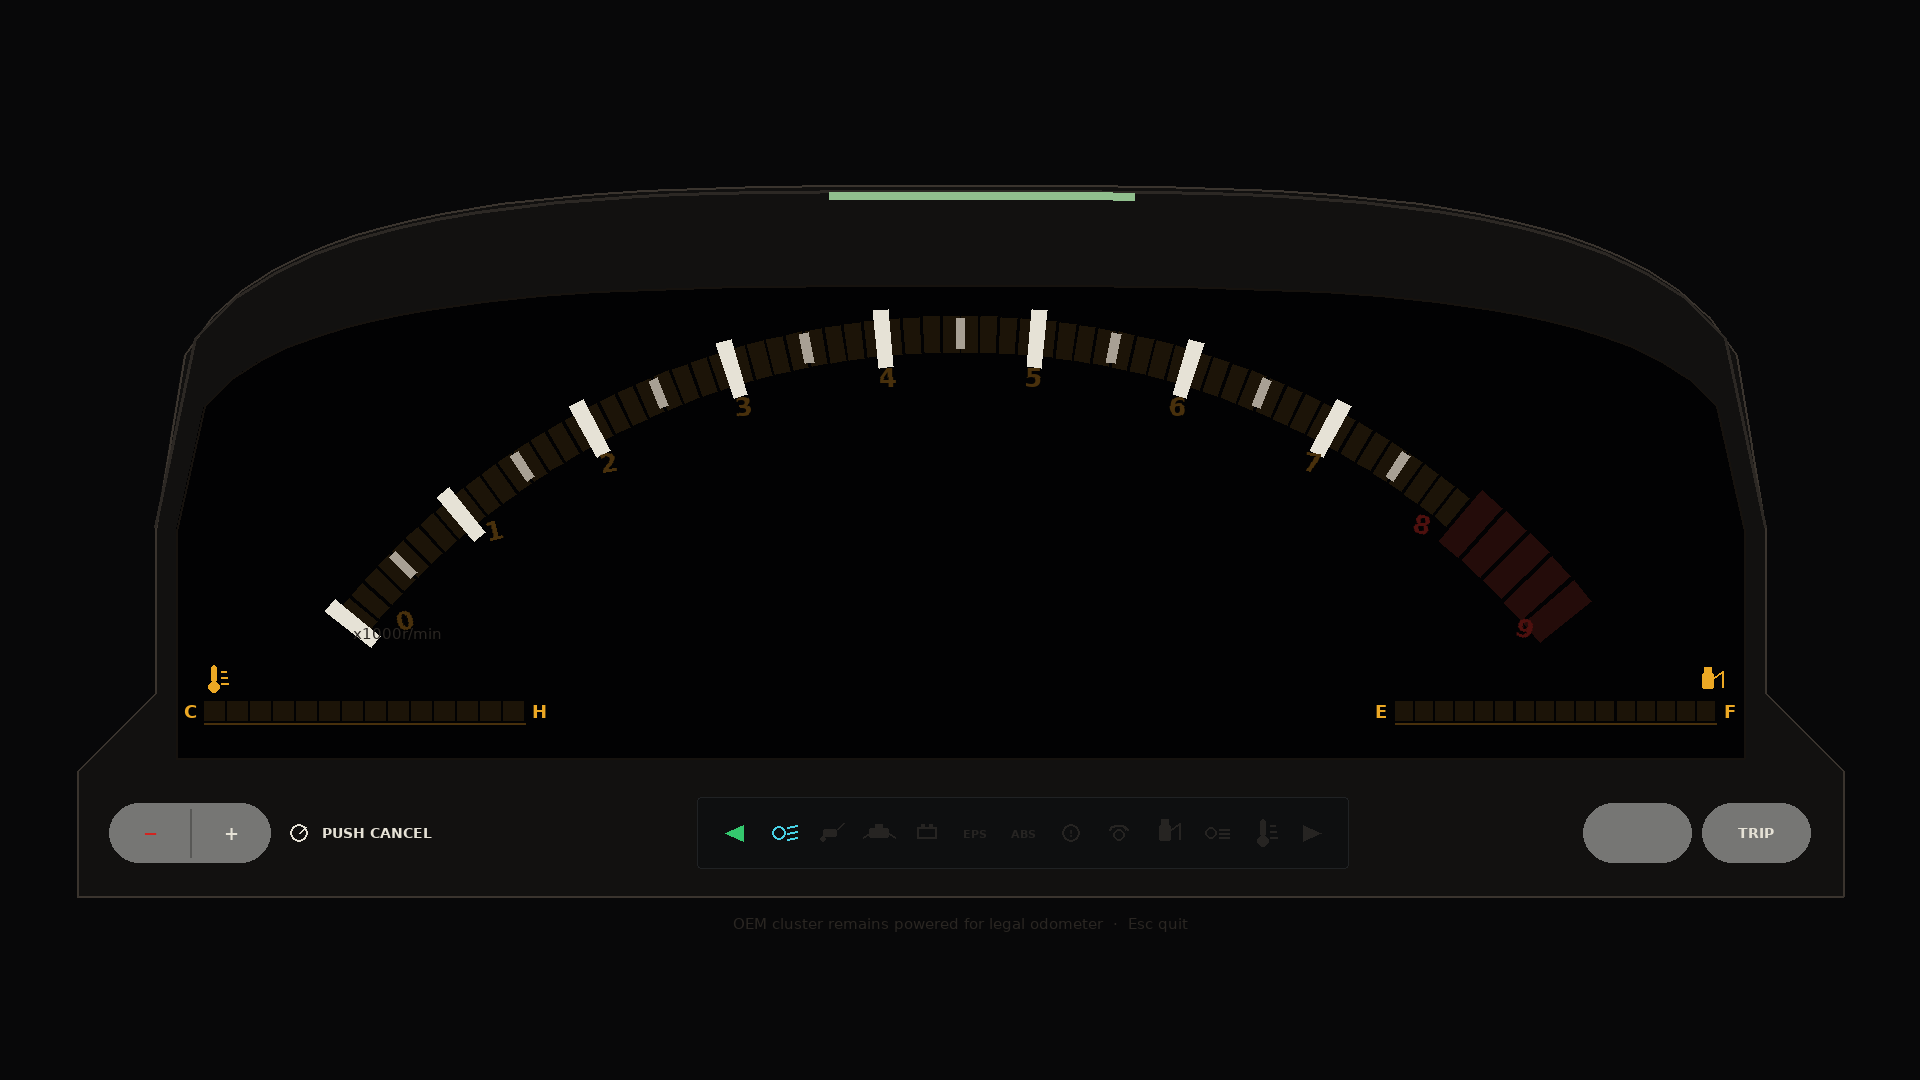
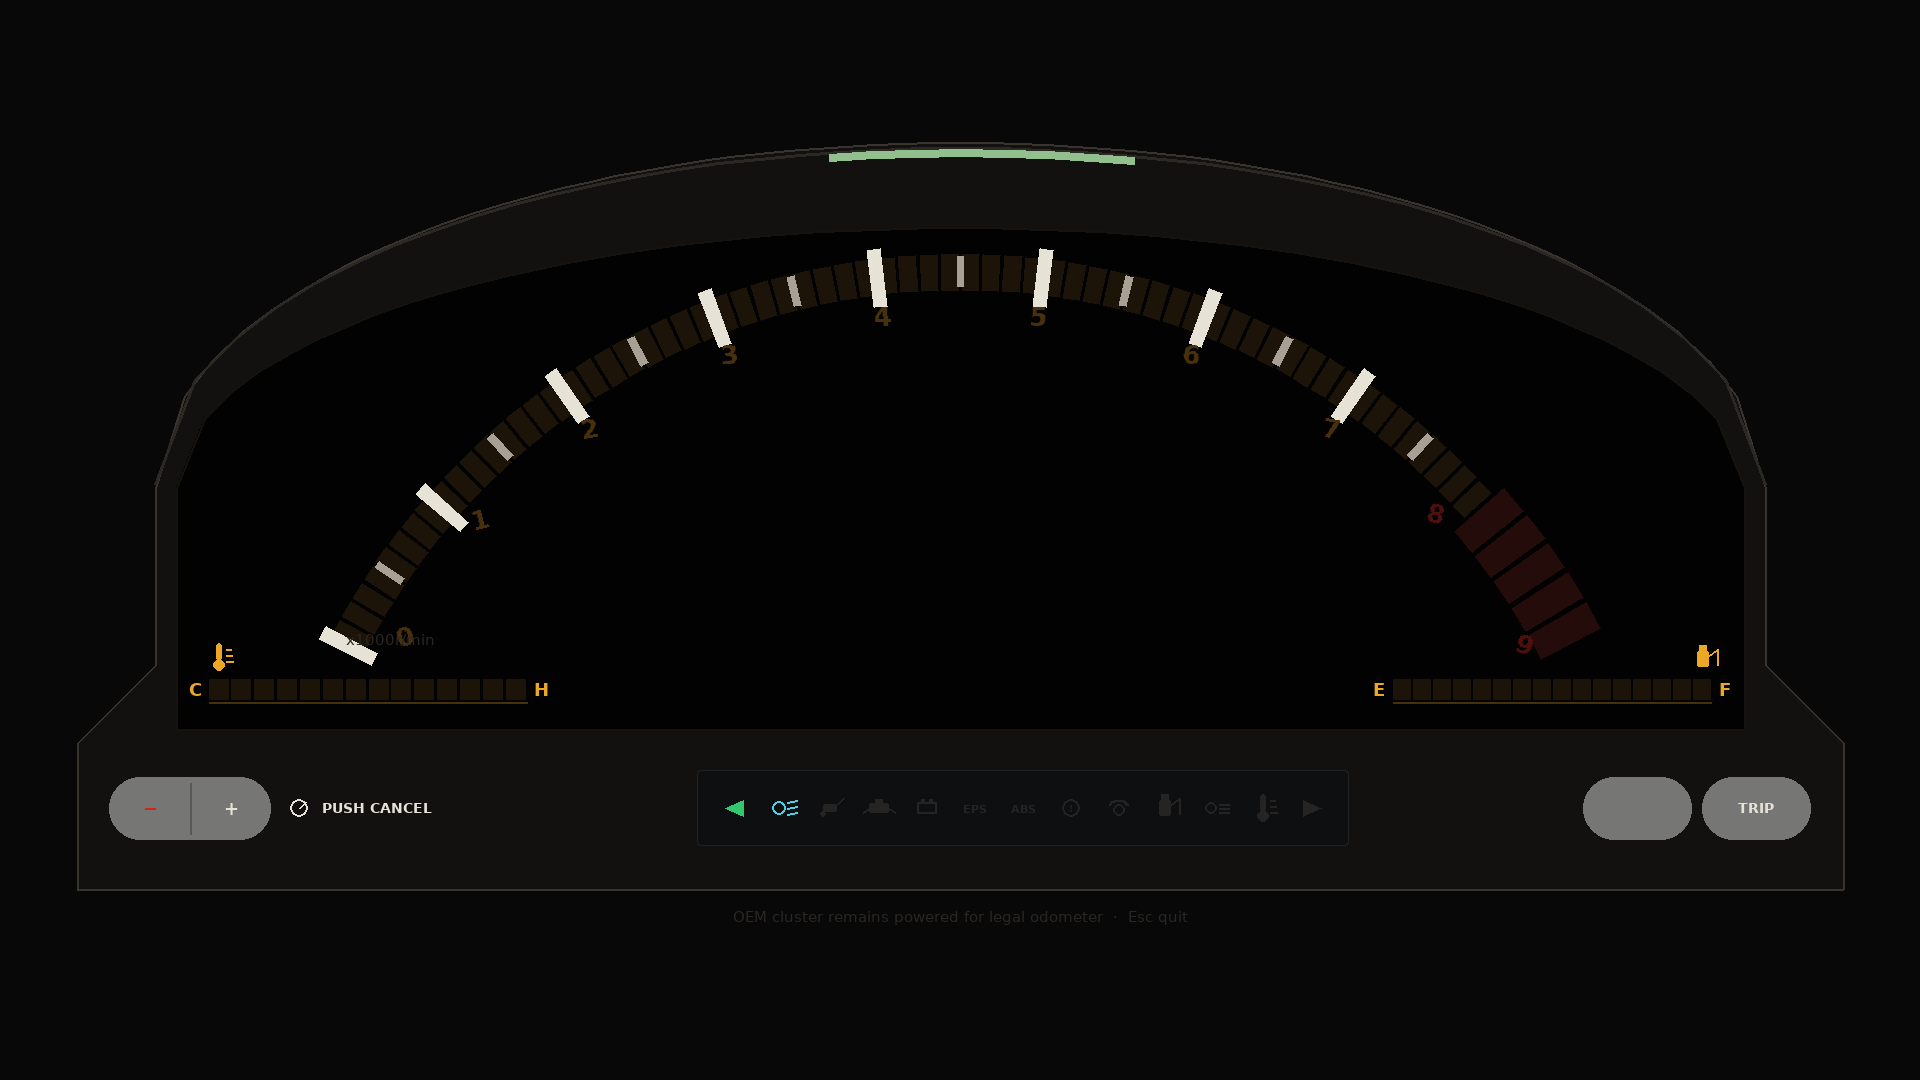
Lock face to 2.35:1 OEM elevation percentages
Drive TEMP/FUEL, speed, and the lamp strip from the flat-drawing
percentages (7.5%/72%, 74.5%/72%, 50%/40%, lamp y 80.5%). Module
aspect is 2.35:1 with a parabolic hood. Add refs/flat PNG.

diff --git a/src/gauge_ui.py b/src/gauge_ui.py
@@ -58,25 +58,26 @@ BEZEL_BAND = (14, 15, 16)
 BEZEL_BAND_EDGE = (32, 34, 36)
 
 # --- locked % layout (see refs/flat/DIMENSIONS.md) ---------------------------
-# Module as % of the 1920×1080 canvas
-MODULE_X_PCT, MODULE_Y_PCT = 0.040, 0.168
-MODULE_W_PCT, MODULE_H_PCT = 0.920, 0.662
-# Within the module
-STEP_W_PCT = 0.044          # 45° inward step each side
-BEZEL_H_PCT = 0.175         # hardware strip below the LCD
+# Module as % of the 1920×1080 canvas; height from OEM 2.35:1 elevation
+MODULE_X_PCT = 0.040
+MODULE_W_PCT = 0.920
+MODULE_ASPECT = 2.35
+# Within the module (0,0 = module top-left) — locked from the flat OEM drawing
+STEP_W_PCT = 0.044          # side notches / 45° inward step
+LAMP_Y_PCT = 0.805          # hardware strip (lamps + buttons)
+BEZEL_H_PCT = 0.175
 LCD_INSET_X_PCT = 0.012
-LCD_TOP_PCT = 0.145         # peak of inner arch from module top
-LCD_BOTTOM_GAP_PCT = 0.018  # air between LCD flat bottom and bezel
-ARCH_N = 3.25               # superellipse: flatter crown, steeper sides
-# LCD-relative (0,0 = top-left of LCD bounding box)
-TACH_END_Y_PCT = 0.68
-TACH_PEAK_Y_PCT = 0.050
-TACH_INSET_X_PCT = 0.100
-TEMP_X_PCT, TEMP_W_PCT = 0.018, 0.205
-FUEL_W_PCT, FUEL_RIGHT_PCT = 0.205, 0.018
-BAR_Y_PCT, BAR_H_PCT = 0.880, 0.042
-SPEED_Y_PCT = 0.50
-ODO_Y_PCT = 0.855
+LCD_TOP_PCT = 0.118
+LCD_BOTTOM_GAP_PCT = 0.018
+ARCH_N = 2.0                # parabola (u²) — OEM crown, not a semicircle
+TEMP_X_PCT, TEMP_Y_PCT, TEMP_W_PCT = 0.075, 0.72, 0.180
+FUEL_X_PCT, FUEL_Y_PCT, FUEL_W_PCT = 0.745, 0.72, 0.180
+BAR_H_PCT = 0.028
+SPEED_X_PCT, SPEED_Y_PCT = 0.50, 0.40
+ODO_Y_PCT = 0.72
+TACH_END_Y_PCT = 0.66
+TACH_PEAK_Y_PCT = 0.145
+TACH_INSET_X_PCT = 0.095
 
 TEMP_SEGS = 14
 FUEL_SEGS = 16
@@ -126,12 +127,12 @@ def _pct(v: float) -> int:
 def build_face_geom(w: int = W, h: int = H) -> FaceGeom:
     """Build the flat AP1 face. Percentages match refs/flat/DIMENSIONS.md."""
     mx = _pct(w * MODULE_X_PCT)
-    my = _pct(h * MODULE_Y_PCT)
     mw = _pct(w * MODULE_W_PCT)
-    mh = _pct(h * MODULE_H_PCT)
+    mh = _pct(mw / MODULE_ASPECT)
+    my = _pct((h - mh) * 0.42)  # sit slightly high so the caption clears
     step = _pct(mw * STEP_W_PCT)
     bezel_h = _pct(mh * BEZEL_H_PCT)
-    bezel_y = my + mh - bezel_h
+    bezel_y = my + _pct(mh * LAMP_Y_PCT)
     inset = _pct(mw * LCD_INSET_X_PCT)
     lcd_x = mx + step + inset
     lcd_w = mw - 2 * step - 2 * inset
@@ -143,17 +144,24 @@ def build_face_geom(w: int = W, h: int = H) -> FaceGeom:
     lcd_h = lcd_bottom - lcd_peak
     lcd_spring = spring
 
-    temp_w = _pct(lcd_w * TEMP_W_PCT)
-    fuel_w = _pct(lcd_w * FUEL_W_PCT)
-    bar_h = max(10, _pct(lcd_h * BAR_H_PCT))
-    bar_y = lcd_y + _pct(lcd_h * BAR_Y_PCT)
-    temp = (lcd_x + _pct(lcd_w * TEMP_X_PCT), bar_y, temp_w, bar_h)
-    fuel = (lcd_x + lcd_w - _pct(lcd_w * FUEL_RIGHT_PCT) - fuel_w, bar_y, fuel_w, bar_h)
+    bar_h = max(10, _pct(mh * BAR_H_PCT))
+    temp = (
+        mx + _pct(mw * TEMP_X_PCT),
+        my + _pct(mh * TEMP_Y_PCT),
+        _pct(mw * TEMP_W_PCT),
+        bar_h,
+    )
+    fuel = (
+        mx + _pct(mw * FUEL_X_PCT),
+        my + _pct(mh * FUEL_Y_PCT),
+        _pct(mw * FUEL_W_PCT),
+        bar_h,
+    )
 
-    cx = lcd_x + lcd_w // 2
+    cx = mx + _pct(mw * SPEED_X_PCT)
     # Circular tach through lower-left, peak, lower-right of the LCD
-    end_y = lcd_y + _pct(lcd_h * TACH_END_Y_PCT)
-    peak_y = lcd_y + _pct(lcd_h * TACH_PEAK_Y_PCT)
+    end_y = my + _pct(mh * TACH_END_Y_PCT)
+    peak_y = my + _pct(mh * TACH_PEAK_Y_PCT)
     end_inset = _pct(lcd_w * TACH_INSET_X_PCT)
     x0 = lcd_x + end_inset
     x1 = lcd_x + lcd_w - end_inset
@@ -200,8 +208,8 @@ def build_face_geom(w: int = W, h: int = H) -> FaceGeom:
         lcd_spring_y=lcd_spring,
         temp=temp,
         fuel=fuel,
-        speed_c=(cx, lcd_y + _pct(lcd_h * SPEED_Y_PCT)),
-        odo_c=(cx, lcd_y + _pct(lcd_h * ODO_Y_PCT)),
+        speed_c=(cx, my + _pct(mh * SPEED_Y_PCT)),
+        odo_c=(cx, my + _pct(mh * ODO_Y_PCT)),
         tach_cx=cx,
         tach_cy=int(round(tach_cy)),
         tach_r_outer=tach_r_outer,

diff --git a/tests/test_gauge_ui.py b/tests/test_gauge_ui.py
@@ -11,6 +11,7 @@ sys.path.insert(0, str(Path(__file__).resolve().parents[1] / "src"))
 
 from gauge_ui import (  # noqa: E402
     FACE,
+    MODULE_ASPECT,
     REDLINE_BLOCKS,
     DisplayState,
     PHASE_READY_S,
@@ -141,10 +142,24 @@ class FaceGeomTests(unittest.TestCase):
         lcd_bottom = FACE.lcd[1] + FACE.lcd[3]
         self.assertGreaterEqual(FACE.bezel[1], lcd_bottom)
 
+    def test_module_aspect_is_locked(self) -> None:
+        self.assertAlmostEqual(MODULE_ASPECT, 2.35, places=2)
+        mw, mh = FACE.module[2], FACE.module[3]
+        self.assertAlmostEqual(mw / mh, 2.35, delta=0.05)
+
     def test_lcd_is_wide_and_short(self) -> None:
         aspect = FACE.lcd[2] / FACE.lcd[3]
-        self.assertGreater(aspect, 3.0)
+        self.assertGreater(aspect, 2.8)
         self.assertLess(aspect, 4.2)
+
+    def test_locked_bottom_and_speed_percentages(self) -> None:
+        mx, my, mw, mh = FACE.module
+        self.assertAlmostEqual((FACE.temp[0] - mx) / mw, 0.075, delta=0.01)
+        self.assertAlmostEqual((FACE.temp[1] - my) / mh, 0.72, delta=0.015)
+        self.assertAlmostEqual((FACE.fuel[0] - mx) / mw, 0.745, delta=0.01)
+        self.assertAlmostEqual((FACE.speed_c[0] - mx) / mw, 0.50, delta=0.01)
+        self.assertAlmostEqual((FACE.speed_c[1] - my) / mh, 0.40, delta=0.02)
+        self.assertAlmostEqual((FACE.bezel[1] - my) / mh, 0.805, delta=0.02)
 
     def test_five_redline_blocks(self) -> None:
         self.assertEqual(REDLINE_BLOCKS, 5)

diff --git a/refs/flat/DIMENSIONS.md b/refs/flat/DIMENSIONS.md
@@ -1,75 +1,48 @@
 # AP1 face dimensions (flat / orthographic)
 
-Lock file for the Phase 1 cluster. Percentages are taken from the OEM AP1
-JDMaster face photo plus the bottom-left TEMP, bottom-right FUEL, and lower
-bezel crops. Future UI edits should change these numbers — not invent new
-layout families.
+Lock file for the Phase 1 cluster. Percentages match the flat OEM elevation
+(JDMaster face + TEMP / FUEL / bezel crops). Future UI edits should change
+these numbers — not invent a new layout family.
 
 Coordinate system:
 
 - **Canvas** — 1920×1080, origin top-left.
-- **Module** — hooded cluster, percent of the canvas.
-- **LCD** — inner aperture bounding box (arched top, **flat bottom**), percent
-  of that box unless noted.
-- No perspective / 3D skew. The physical cluster is drawn as a flat elevation.
+- **Module** — hooded cluster. Width is 92% of the canvas; height is width /
+  **2.35**. Origin of the percentages below is the **module** top-left.
+- No perspective / 3D skew.
 
-## Module (percent of canvas)
+## Module (canvas)
 
-| Item | x | y | w | h |
-| --- | --- | --- | --- | --- |
-| Module | 4.0% | 16.8% | 92.0% | 66.2% |
-
-| Item | % of module |
+| Item | Value |
 | --- | --- |
-| Side step (45° inward, each side) | 4.4% of width |
-| Hardware / lamp bezel height | 17.5% of height |
-| LCD top (inner arch peak) | 14.5% from module top |
-| Gap, LCD bottom → bezel | 1.8% of height |
-| Outer arch exponent `n` | 3.25 (superellipse; flatter crown, steeper sides) |
+| x | 4.0% of canvas |
+| w | 92.0% of canvas |
+| aspect (w:h) | **2.35:1** |
+| y | centred, nudged up for the caption |
 
-Silhouette rules (OEM housing):
-
-1. **Flat bottom** — both lower corners share the same y.
-2. **Stepped sides** — short vertical rise (bezel), 45° inward step, then
-   vertical LCD sides that meet the arch.
-3. **Broad top arch** — not a semicircle; crown is flatter than the sides.
-
-LCD aperture aspect is about **3.5:1** (wide, short). Do not let the well
-become a tall rounded rectangle.
-
-## LCD face (percent of LCD bounding box)
+## Locked layout (percent of module)
 
 | Item | Placement |
 | --- | --- |
-| Tach 0 / 9 ends | 10.0% in from each side, **68%** down |
-| Tach peak | 50% x, **5.0%** down |
-| Tach numbers | **inside** the tick arc (smaller radius than the blocks) |
-| Redline | **five** thick blocks from 8 → 9 (`8/9` … `1.0`) |
-| `x1000r/min` | under the 0–1 ticks, lower left |
-| Speed | 50% x, **50%** down, centred in the tach bowl |
-| ODO / TRIP / BATT | 50% x, **85.5%** down — **same baseline** as TEMP / FUEL |
-| TEMP bar | horizontal **C–H**, 1.8% from left, width 20.5%, y **88%**, h 4.2% |
-| FUEL bar | horizontal **E–F**, 1.8% from right, **same y / h / width** as TEMP |
-| TEMP icon | thermometer above the **C** end |
-| FUEL icon | pump above the **F** end |
+| Silhouette | **flat bottom**, **side notches** (4.4% step), **parabolic** top arch (`n = 2`) |
+| Speed | centre **(50%, 40%)** |
+| TEMP bar | horizontal C–H, origin **(7.5%, 72%)**, width 18.0%, height 2.8% |
+| FUEL bar | horizontal E–F, origin **(74.5%, 72%)**, width 18.0%, height 2.8% |
+| ODO / TRIP / BATT | same baseline as TEMP / FUEL (y = 72%) |
+| Lamp / hardware strip | y ≈ **80.5%**, height 17.5% |
+| Tach ends | ~9.5% in from LCD sides, y ≈ 66% (above TEMP / FUEL) |
+| Tach peak | 50% x, y ≈ 14.5% |
+| Redline | **five** thick blocks from 8 → 9 |
+| Tach numerals | **inside** the tick arc |
 
-TEMP is **not** a tall vertical stack on the mid-left. Both corner gauges are
-short horizontal bars sitting on the flat LCD bottom, with the tach 0-mark
-above TEMP and the 9-mark above FUEL.
+Hardware strip, left → right:
 
-## Hardware strip (below the LCD, on the bezel)
+- `−/+` rocker + brightness dial + **PUSH CANCEL**
+- Dense icon lamp band (turn, HI, oil, CEL, battery, EPS, ABS, brake, airbag, fuel, fog, hot, turn)
+- Blank oval + **TRIP**
 
-Percent of **module** width, vertically centred in the 17.5% bezel band:
-
-| Item | Placement |
-| --- | --- |
-| − / + rocker | left, pill, ~9.2% wide |
-| Brightness dial + `PUSH CANCEL` | immediately right of the rocker |
-| Lamp band | dark translucent strip, packed **icons** (not sparse text chips) |
-| Blank oval + `TRIP` | right pair, ~6.2% wide each |
-
-Lamp order (left → right): turn L, high beam, oil, CEL / engine, battery,
-EPS, ABS, brake, airbag, low fuel, fog, hot, turn R.
+TEMP is **not** a tall vertical stack. Both corner gauges are short horizontal
+bars on the same y. The tach 0-mark sits above TEMP; 9 sits above FUEL.
 
 Protocol JSON fields stay `rpm`, `speed_kmh`, `fuel_pct`, `ect_c`, `batt_v`,
 `odo_km`, plus the existing `lamps` keys. Extra lamp keys (`eps`, `brake`,
@@ -79,8 +52,7 @@ Protocol JSON fields stay `rpm`, `speed_kmh`, `fuel_pct`, `ect_c`, `batt_v`,
 
 - Vertical TEMP on the mid-face
 - FUEL floating at mid-right, unmatched to TEMP
-- Lamps drawn as large labelled chips on the LCD with a hollow gap under the
-  speed
-- Rounded “app chrome” pill instead of the stepped hood
+- Lamps as large labelled chips on the LCD
+- Rounded “app chrome” pill instead of the notched hood
 - Fake 3D cabin ellipses / drop-shadow skew
-
+- Module aspect drifting off **2.35:1**

diff --git a/README.md b/README.md
@@ -11,7 +11,8 @@ JSON over UART (`src/serial_reader.py`).
 Repo: `johnnyhuy/s2000-ap1-digital-dash`.
 
 Proportions are locked in [`refs/flat/DIMENSIONS.md`](refs/flat/DIMENSIONS.md)
-(flat SVG: [`refs/flat/ap1_face.svg`](refs/flat/ap1_face.svg)).
+(flat SVG / PNG: [`refs/flat/ap1_face.svg`](refs/flat/ap1_face.svg),
+[`refs/flat/ap1_face.png`](refs/flat/ap1_face.png)). Module aspect is **2.35:1**.
 
 ## Face (AP1 OEM geometry)
 
